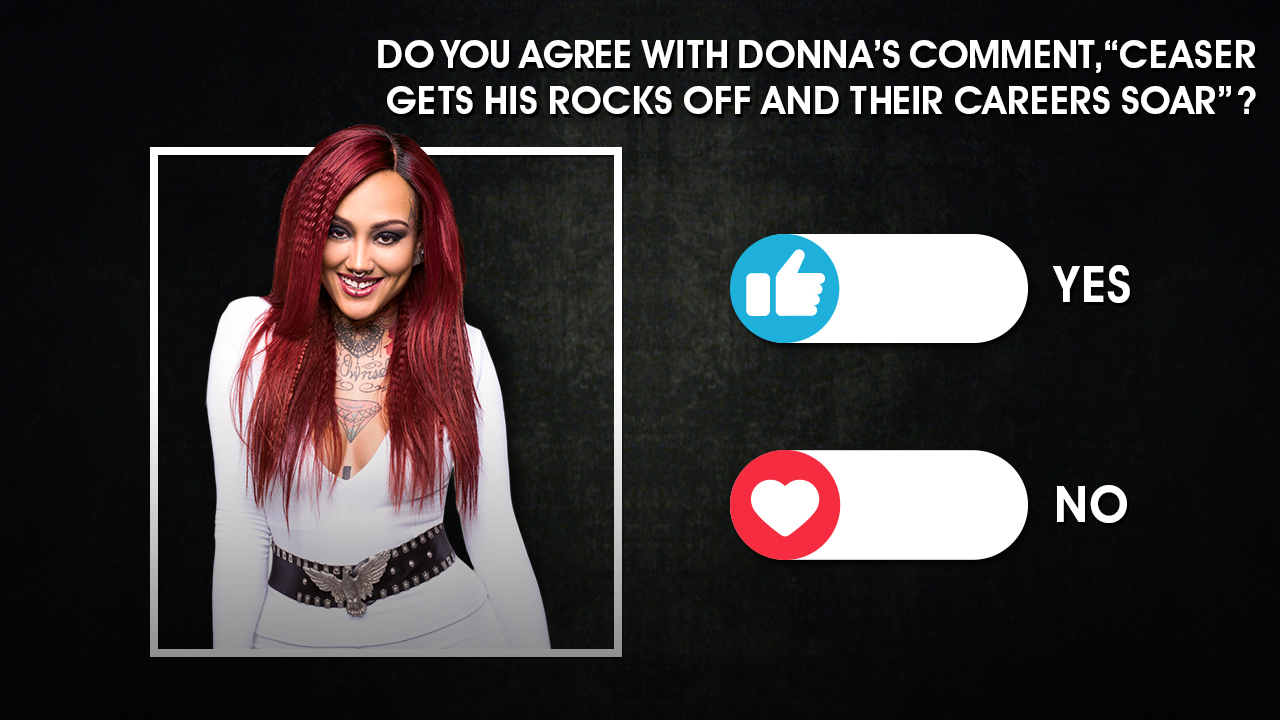
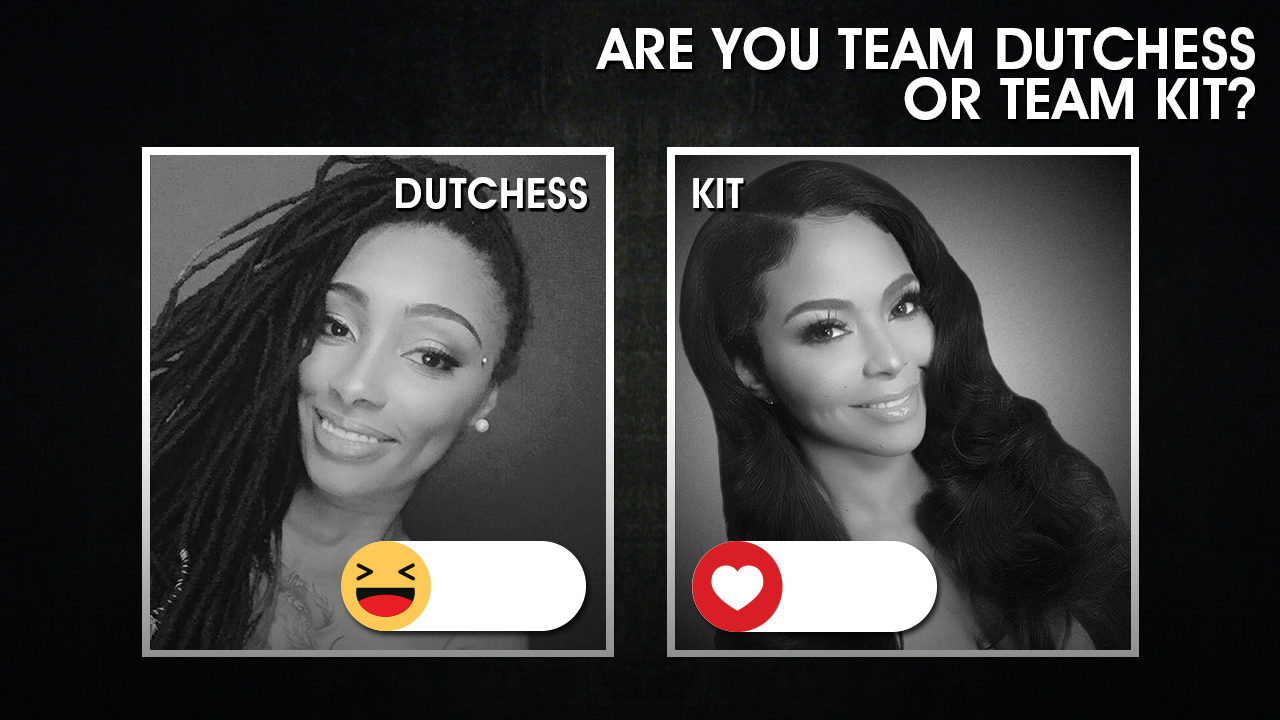
updated bic polls

diff --git a/ayto.html b/ayto.html
@@ -20,36 +20,36 @@
     
     #sad {
         position: absolute;
-    top: 337px;
-    left: 976px;
+        top: 337px;
+        left: 976px;
         display: block;
     }
     
     #love {
         position: absolute;
-           top: 337px;
-    left: 227px;
+        top: 337px;
+        left: 227px;
         display: block;
     }
     
     #haha {
         position: absolute;
-       top: 337px;
-    left: 597px;
+        top: 337px;
+        left: 597px;
         display: block;
     }
-
-    #angry{
-    	position: absolute;
-    	    top: 521px;
-    left: 430px;
-    display: block;
+    
+    #angry {
+        position: absolute;
+        top: 521px;
+        left: 430px;
+        display: block;
     }
     
     #wow {
         position: absolute;
-       top: 521px;
-    left: 799px;
+        top: 521px;
+        left: 799px;
         display: block;
     }
     </style>

diff --git a/bic.html b/bic.html
@@ -25,7 +25,7 @@
         position: absolute;
         top: 245px;
         left: 840px;
-        display: block;
+        display: none;
     }
     
     #sad {
@@ -37,9 +37,9 @@
     
     #love {
         position: absolute;
-        top: 465px;
-        left: 840px;
-        display: block;
+       top: 249px;
+    left: 881px; 
+           display: block;
     }
     
     #haha {
@@ -51,9 +51,9 @@
     
     #wow {
         position: absolute;
-        top: 438px;
-        left: 900px;
-        display: none;
+  top: 470px;
+    left: 881px;
+        display: block;
     }
     </style>
 </head>

diff --git a/bic2.html b/bic2.html
@@ -25,7 +25,7 @@
         position: absolute;
         top: 245px;
         left: 840px;
-        display: block;
+        display: none;
     }
     
     #sad {
@@ -37,16 +37,16 @@
     
     #love {
         position: absolute;
-        top: 465px;
-        left: 840px;
+    top: 545px;
+    left: 784px;
         display: block;
     }
     
     #haha {
         position: absolute;
-        top: 255px;
-        left: 715px;
-        display: none;
+         top: 545px;
+    left: 429px;
+        display: block;
     }
     
     #wow {
